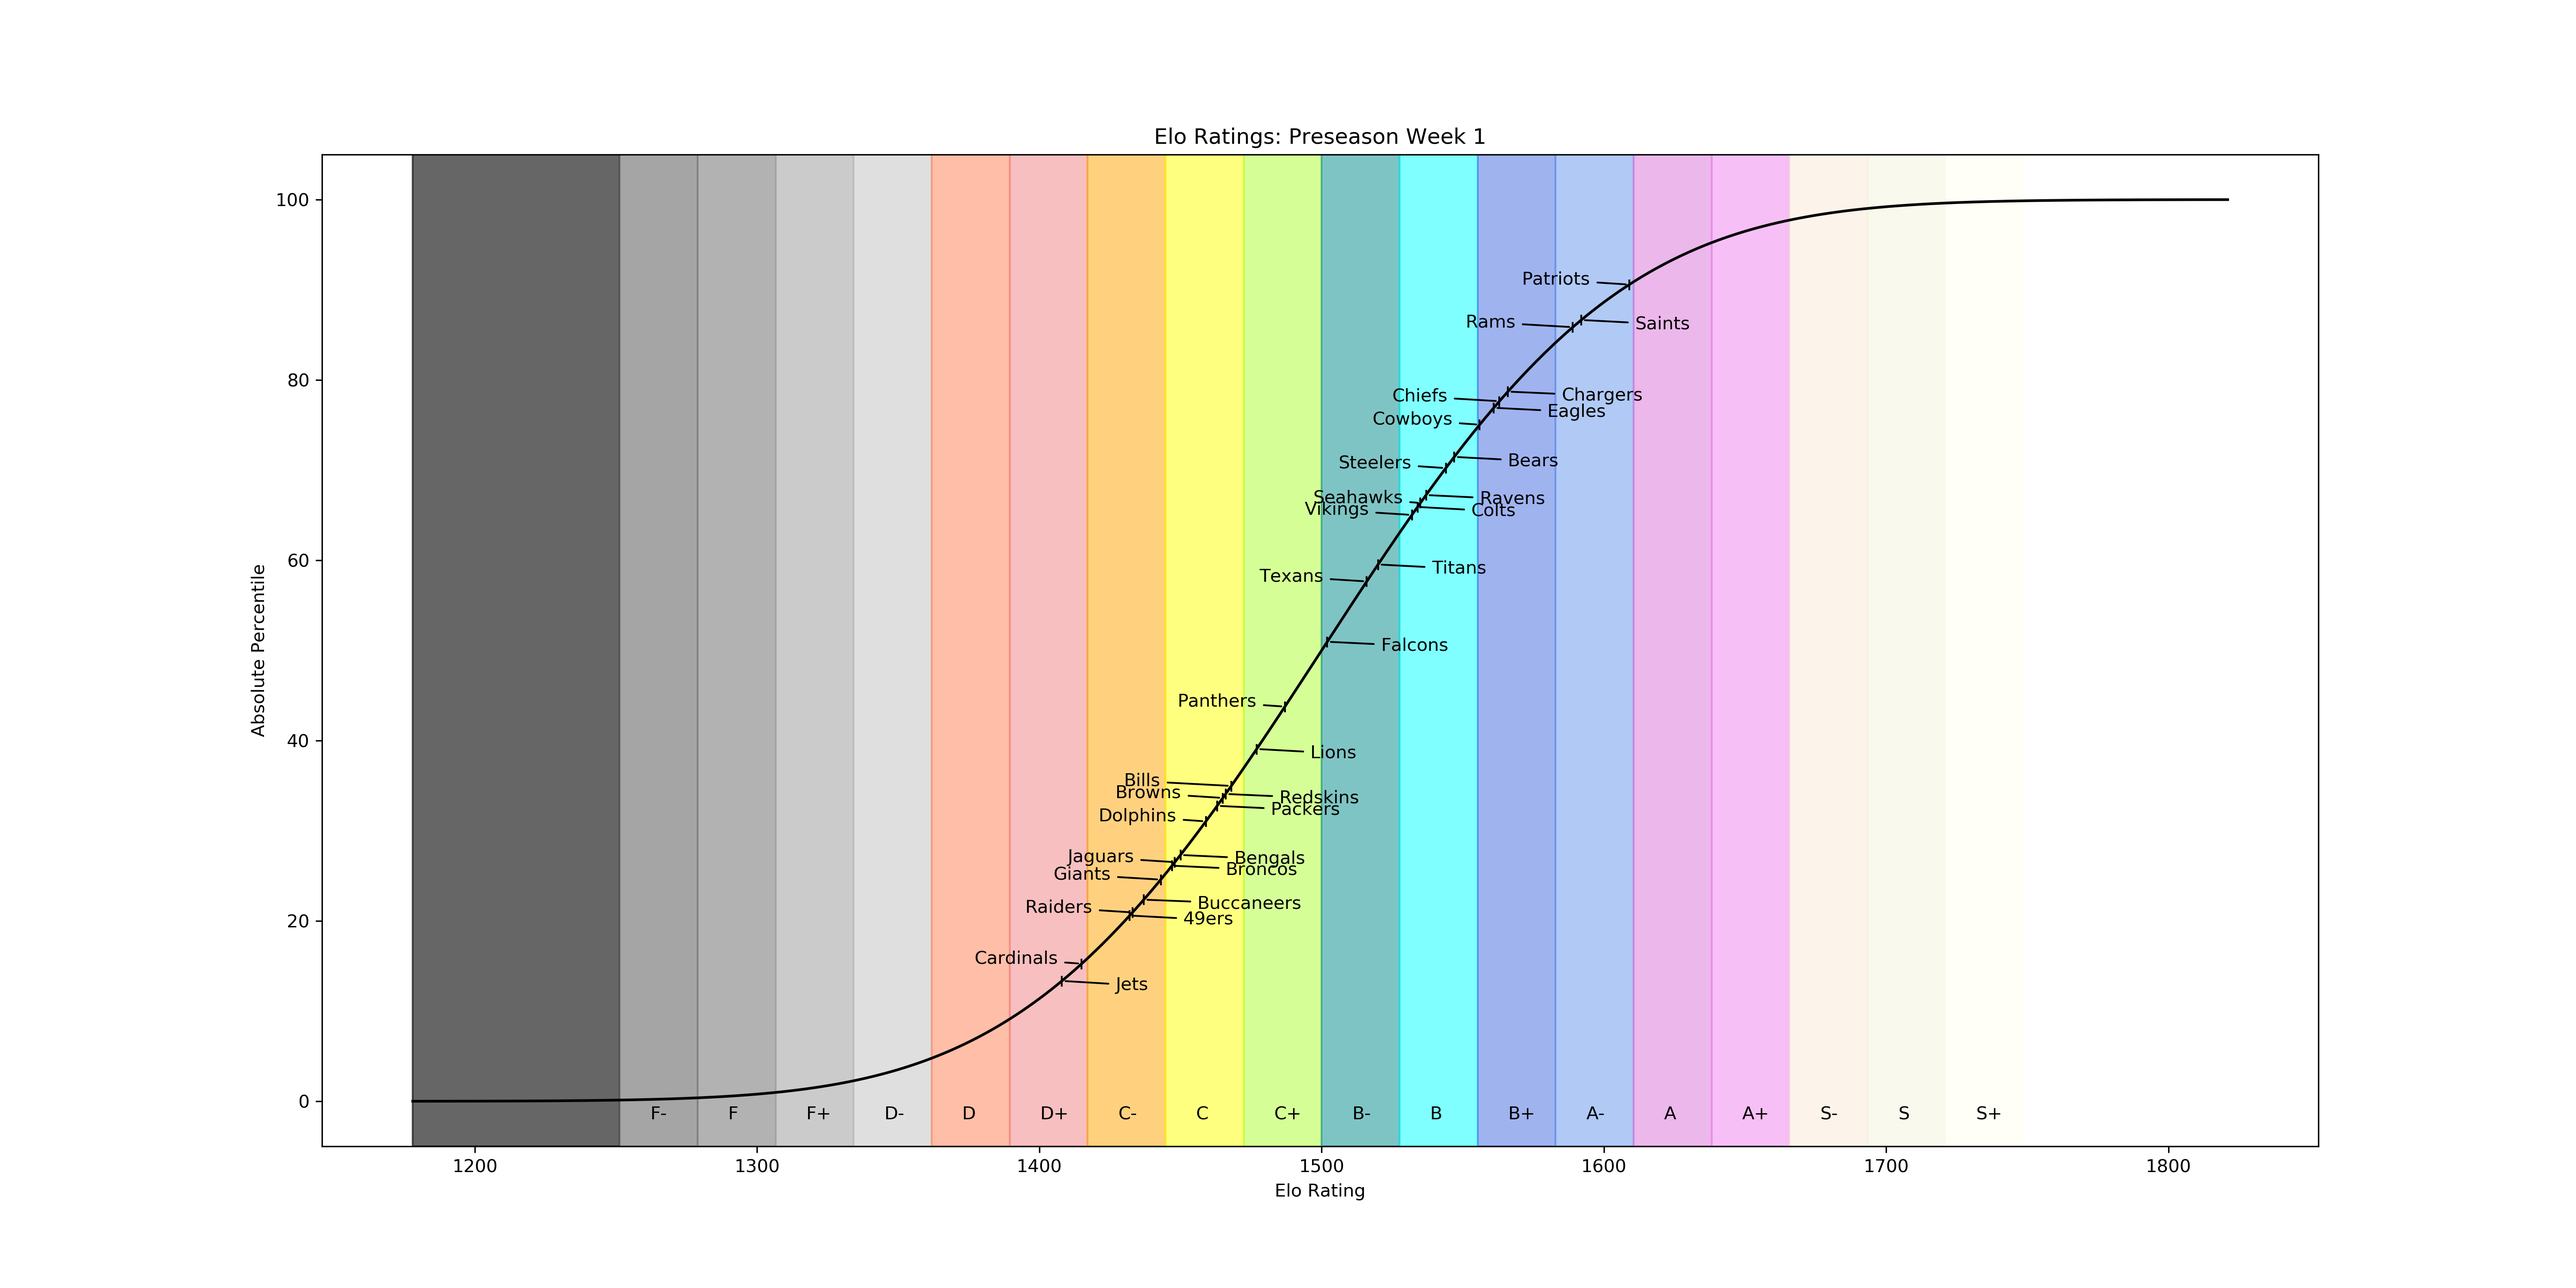
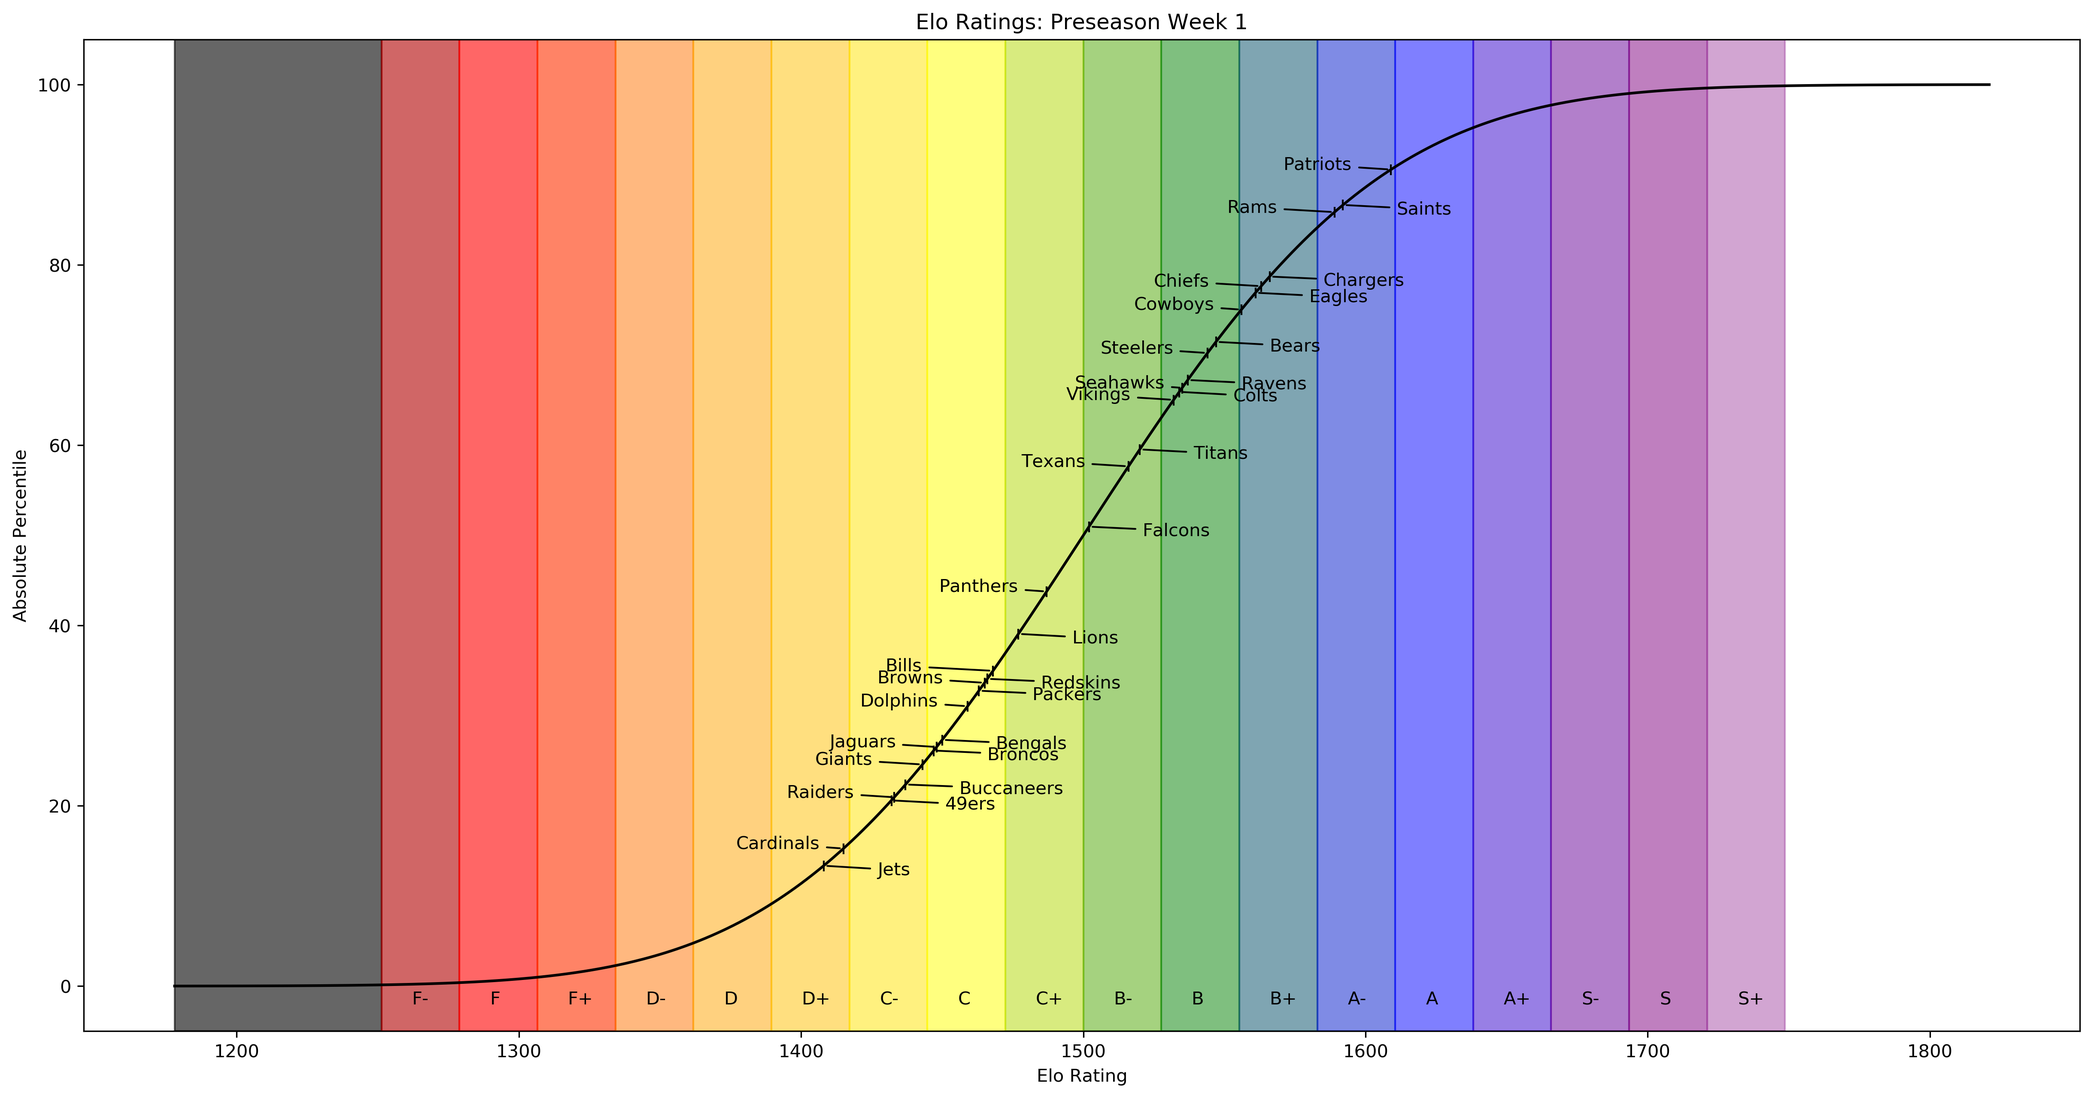
Changed color scheme

diff --git a/NFLSeason2019.py b/NFLSeason2019.py
@@ -177,7 +177,7 @@ def handle_week(teams,
     return teams
 
 
-def plot_elo_function(teams, week_name, absolute=False):
+def plot_elo_function(teams, week_name, absolute=False, classic_colors=False):
     # Get the elo rating of each team
     actual_elos = [round(team[4]) for team in teams]
 
@@ -209,6 +209,11 @@ def plot_elo_function(teams, week_name, absolute=False):
     bottom = round(avg_elo - 3.89 * elo_dev)
     top = round(avg_elo + 3.89 * elo_dev)
 
+    # Get the range for the curve and the location of each team
+    vals = range(bottom, top)
+    markers = [vals.index(elo) for elo in actual_elos]
+    vals = np.arange(bottom, top)
+
     # Get the values that match the boundaries of the tiers
     s_plus = avg_elo + elo_dev_third * 8
     s = avg_elo + elo_dev_third * 7
@@ -229,71 +234,108 @@ def plot_elo_function(teams, week_name, absolute=False):
     f = avg_elo - elo_dev_third * 8
     f_minus = avg_elo - elo_dev_third * 9
 
-    # Get the range for the curve and the location of each team
-    vals = range(bottom, top)
-    markers = [vals.index(elo) for elo in actual_elos]
-    vals = np.arange(bottom, top)
+    # Set the colors of the tiers
+    if classic_colors:
+        s_plus_color = '#FFFFF0'
+        s_color = '#F5F5DC'
+        s_minus_color = '#FAEBD7'
+        a_plus_color = '#EE82EE'
+        a_color = '#DA70D6'
+        a_minus_color = '#6495ED'
+        b_plus_color = '#4169E1'
+        b_color = '#00FFFF'
+        b_minus_color = '#008B8B'
+        c_plus_color = '#ADFF2F'
+        c_color = '#FFFF00'
+        c_minus_color = '#FFA500'
+        d_plus_color = '#FF7F50'
+        d_color = '#FF6347'
+        d_minus_color = '#A9A9A9'
+        f_plus_color = '#808080'
+        f_color = '#606060'
+        f_minus_color = '#404040'
+        bottom_color = '#000000'
+    else:
+        s_plus_color = '#A64CA6'
+        s_color = '#800080'
+        s_minus_color = '#660099'
+        a_plus_color = '#3300CC'
+        a_color = '#0000FF'
+        a_minus_color = '#0019CC'
+        b_plus_color = '#004C66'
+        b_color = '#008000'
+        b_minus_color = '#4CA600'
+        c_plus_color = '#B2D800'
+        c_color = '#FFFF00'
+        c_minus_color = '#FFE400'
+        d_plus_color = '#FFC000'
+        d_color = '#FFA500'
+        d_minus_color = '#FF7300'
+        f_plus_color = '#FF3100'
+        f_color = '#FF0000'
+        f_minus_color = '#B20000'
+        bottom_color = '#000000'
 
     # Plot the CDF and mark each team
     fig, ax = plt.subplots(figsize=(20, 10))
     ax.plot(vals, cdf(vals), 'k', markevery=markers, marker='|')
 
     # Color each section by the tier color
-    ax.axvspan(bottom, f_minus, alpha=0.6, color='#000000')
+    ax.axvspan(bottom, f_minus, alpha=0.6, color=bottom_color)
     # ax.annotate(s='F-', xy=((f_minus - elo_dev_third + f_minus) / 2 - 3, -2))
 
-    ax.axvspan(f_minus, f, alpha=0.6, color='#696969')
+    ax.axvspan(f_minus, f, alpha=0.6, color=f_minus_color)
     ax.annotate(s='F-', xy=((f_minus + f) / 2 - 3, -2))
 
-    ax.axvspan(f, f_plus, alpha=0.6, color='#808080')
+    ax.axvspan(f, f_plus, alpha=0.6, color=f_color)
     ax.annotate(s='F', xy=((f + f_plus) / 2 - 3, -2))
 
-    ax.axvspan(f_plus, d_minus, alpha=0.6, color='#A9A9A9')
+    ax.axvspan(f_plus, d_minus, alpha=0.6, color=f_plus_color)
     ax.annotate(s='F+', xy=((f_plus + d_minus) / 2 - 3, -2))
 
-    ax.axvspan(d_minus, d, alpha=0.5, color='#C0C0C0')
+    ax.axvspan(d_minus, d, alpha=0.5, color=d_minus_color)
     ax.annotate(s='D-', xy=((d_minus + d) / 2 - 3, -2))
 
-    ax.axvspan(d, d_plus, alpha=0.5, color='#FF7F50')
+    ax.axvspan(d, d_plus, alpha=0.5, color=d_color)
     ax.annotate(s='D', xy=((d + d_plus) / 2 - 3, -2))
 
-    ax.axvspan(d_plus, c_minus, alpha=0.5, color='#F08080')
+    ax.axvspan(d_plus, c_minus, alpha=0.5, color=d_plus_color)
     ax.annotate(s='D+', xy=((d_plus + c_minus) / 2 - 3, -2))
 
-    ax.axvspan(c_minus, c, alpha=0.5, color='#FFA500')
+    ax.axvspan(c_minus, c, alpha=0.5, color=c_minus_color)
     ax.annotate(s='C-', xy=((c_minus + c) / 2 - 3, -2))
 
-    ax.axvspan(c, c_plus, alpha=0.5, color='#FFFF00')
+    ax.axvspan(c, c_plus, alpha=0.5, color=c_color)
     ax.annotate(s='C', xy=((c + c_plus) / 2 - 3, -2))
 
-    ax.axvspan(c_plus, b_minus, alpha=0.5, color='#ADFF2F')
+    ax.axvspan(c_plus, b_minus, alpha=0.5, color=c_plus_color)
     ax.annotate(s='C+', xy=((c_plus + b_minus) / 2 - 3, -2))
 
-    ax.axvspan(b_minus, b, alpha=0.5, color='#008B8B')
+    ax.axvspan(b_minus, b, alpha=0.5, color=b_minus_color)
     ax.annotate(s='B-', xy=((b_minus + b) / 2 - 3, -2))
 
-    ax.axvspan(b, b_plus, alpha=0.5, color='#00FFFF')
+    ax.axvspan(b, b_plus, alpha=0.5, color=b_color)
     ax.annotate(s='B', xy=((b + b_plus) / 2 - 3, -2))
 
-    ax.axvspan(b_plus, a_minus, alpha=0.5, color='#4169E1')
+    ax.axvspan(b_plus, a_minus, alpha=0.5, color=b_plus_color)
     ax.annotate(s='B+', xy=((b_plus + a_minus) / 2 - 3, -2))
 
-    ax.axvspan(a_minus, a, alpha=0.5, color='#6495ED')
+    ax.axvspan(a_minus, a, alpha=0.5, color=a_minus_color)
     ax.annotate(s='A-', xy=((a_minus + a) / 2 - 3, -2))
 
-    ax.axvspan(a, a_plus, alpha=0.5, color='#DA70D6')
+    ax.axvspan(a, a_plus, alpha=0.5, color=a_color)
     ax.annotate(s='A', xy=((a + a_plus) / 2 - 3, -2))
 
-    ax.axvspan(a_plus, s_minus, alpha=0.5, color='#EE82EE')
+    ax.axvspan(a_plus, s_minus, alpha=0.5, color=a_plus_color)
     ax.annotate(s='A+', xy=((a_plus + s_minus) / 2 - 3, -2))
 
-    ax.axvspan(s_minus, s, alpha=0.5, color='#FAEBD7')
+    ax.axvspan(s_minus, s, alpha=0.5, color=s_minus_color)
     ax.annotate(s='S-', xy=((s_minus + s) / 2 - 3, -2))
 
-    ax.axvspan(s, s_plus, alpha=0.5, color='#F5F5DC')
+    ax.axvspan(s, s_plus, alpha=0.5, color=s_color)
     ax.annotate(s='S', xy=((s + s_plus) / 2 - 3, -2))
 
-    ax.axvspan(s_plus, s_plus + elo_dev_third, alpha=0.5, color='#FFFFF0')
+    ax.axvspan(s_plus, s_plus + elo_dev_third, alpha=0.5, color=s_plus_color)
     ax.annotate(s='S+', xy=((s_plus + s_plus + elo_dev_third) / 2 - 3, -2))
 
     # Label each teams marker with the team name
@@ -321,10 +363,10 @@ def plot_elo_function(teams, week_name, absolute=False):
 
     if absolute:
         plt.savefig('..\\Projects\\nfl\\NFL_Prediction\\2019Ratings\\Absolute\\Elo_Ratings_' + week_name + '.png',
-                    dpi=300)
+                    dpi=300, bbox_inches='tight')
     else:
         plt.savefig('..\\Projects\\nfl\\NFL_Prediction\\2019Ratings\\Relative\\Elo_Ratings_' + week_name + '.png',
-                    dpi=300)
+                    dpi=300, bbox_inches='tight')
     plt.show()
 
 
